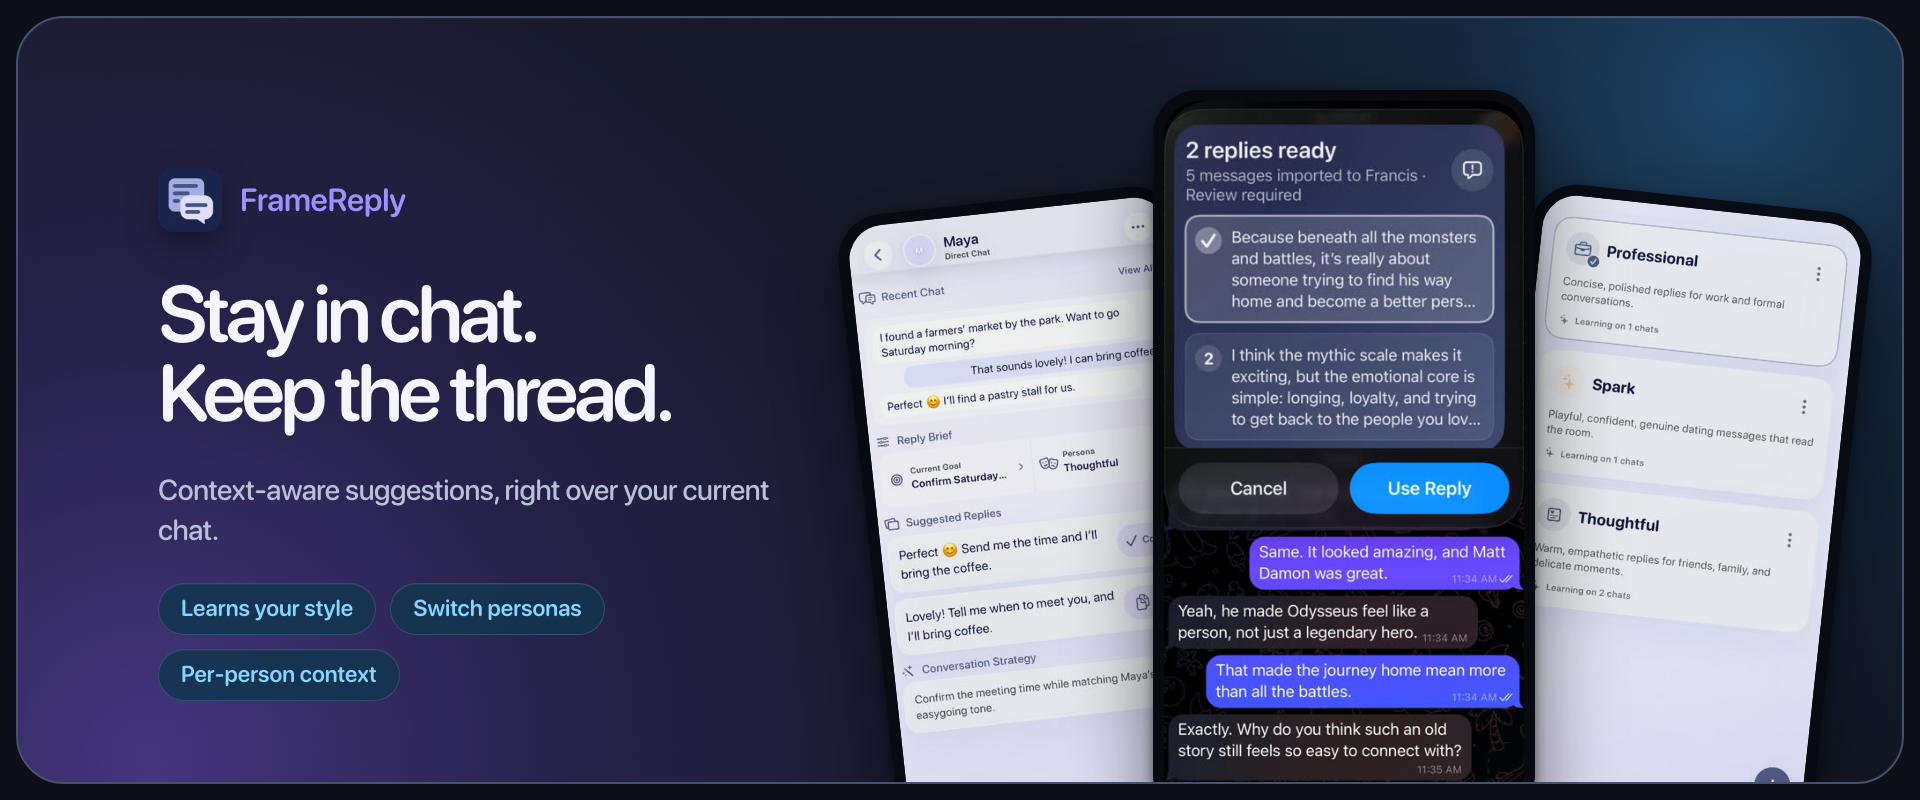
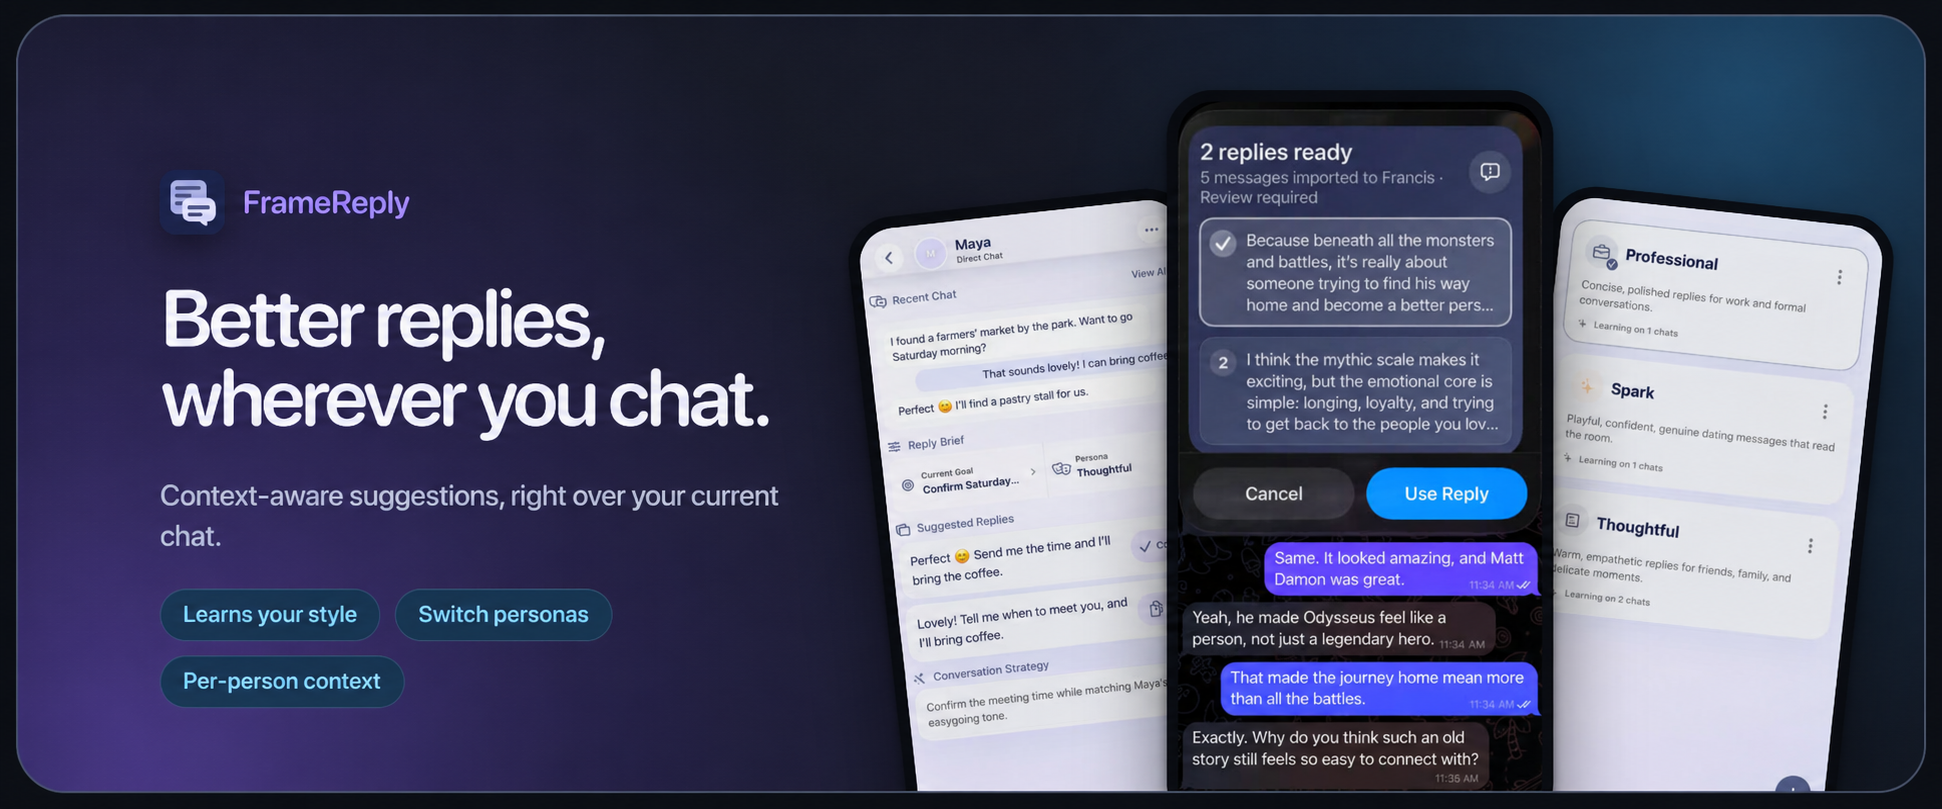
docs: update README messaging and hero image

diff --git a/README.md b/README.md
@@ -2,9 +2,9 @@
 
 # FrameReply
 
-![FrameReply — Stay in chat. Keep the thread.](docs/images/framereply-hero.png)
+![FrameReply — Better replies, wherever you chat.](docs/images/framereply-hero.png)
 
-FrameReply is an open-source chat assistant that delivers two context-aware reply  ideas directly on your current messaging screen using Shortcuts and snippets. It remembers useful details about each person, supports custom  personas, and adapts to your writing style. 
+FrameReply is an open-source chat assistant that delivers two context-aware reply ideas directly on your current messaging screen using Shortcuts and snippets. It remembers useful details about each person, supports custom personas, and adapts to your writing style.
 
 **Download on:** [![Download on the App Store](https://img.shields.io/badge/App_Store-0D96F6?logo=appstore&logoColor=white)](https://apps.apple.com/us/app/framereply/id6794846730)
 
@@ -12,7 +12,7 @@ FrameReply is an open-source chat assistant that delivers two context-aware repl
 
 ### Stay in Chat
 
-- Get context-aware reply ideas in an interactive Shortcuts overlay without leaving your current messaging screen.
+- Get AI-powered reply ideas across messaging apps, based on chat screenshots and delivered in an interactive Shortcuts overlay without leaving your conversation.
 - Bring in chat screenshots or copied messages via Share Sheet or Shortcuts. The image shortcut can also capture the current screen or launch with Back Tap.
 
 ### Keep the thread
@@ -35,6 +35,7 @@ FrameReply is an open-source chat assistant that delivers two context-aware repl
 
 - An iPhone running iOS 26 or later.
 - A FrameReply AI subscription where offered, or your own API key for OpenAI, OpenRouter, or MiniMax.
+- When using your own API key, usage may incur charges from that provider.
 
 ## How to use
 
